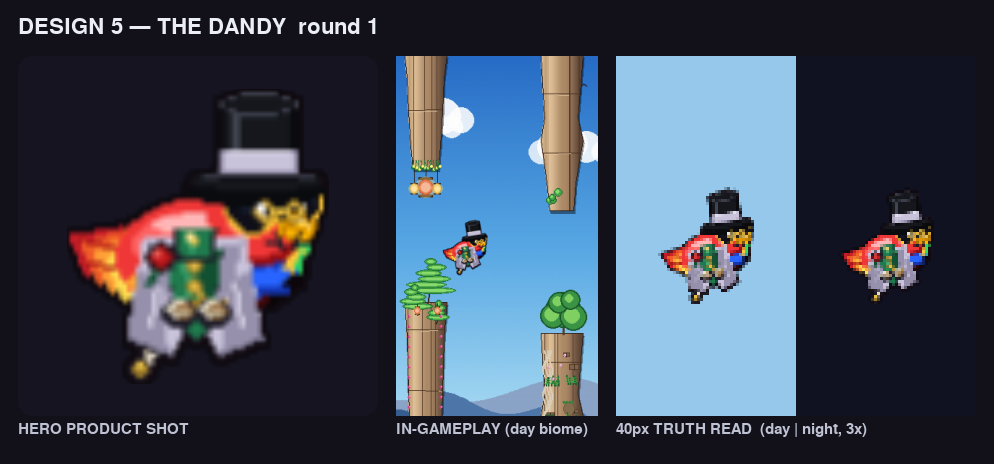
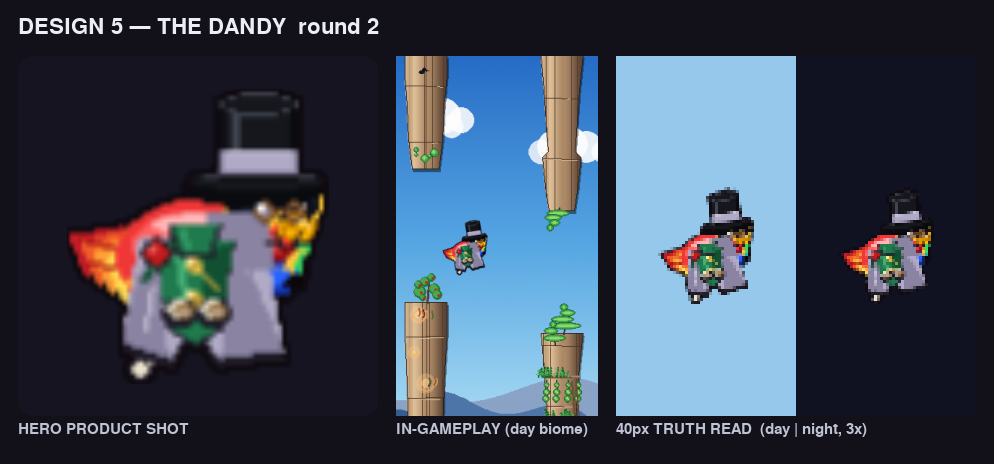
DANDY tophat R2: emerald wedge hero, crisp lavender coat, one gold accent
Chest-consolidation pass on the scratch tophat candidate (design 5).
Kill the stray native-blue wing feather punching through the coat opening
(wider right panel + shoulder cap), widen/raise the emerald waistcoat wedge
so it is the clear second read after the hat, drop the coat base to #B0AAC6
so the lavender holds as a crisp shape on the bright day sky, and cut gold to
one accent (cane knob + two larger buttons, tortoiseshell specs not gold).
Scratch exploration only; not wired into store_skins.BUILDERS.

Claude-Session: https://claude.ai/code/session_01HafGQfRZVDiGkQqpJPr5Cm

diff --git a/tools/tophat_candidates/design_5.py b/tools/tophat_candidates/design_5.py
@@ -19,9 +19,12 @@ import pygame
 
 
 # ── concept palette (per the spec) + derived shadow/highlight steps ──────────
-_DN_LAV     = (200, 194, 218)     # #C8C2DA dove-lavender coat
-_DN_LAV_D   = (150, 144, 172)     # coat shadow / fold
-_DN_LAV_H   = (228, 224, 240)     # coat highlight ridge
+# Coat base dropped ~12% in value to #B0AAC6 so the lavender reads as a CRISP
+# SHAPE against the bright day biome instead of melting into it; the original
+# #C8C2DA is reserved for a single highlight ridge.
+_DN_LAV     = (176, 170, 198)     # #B0AAC6 dove-lavender coat (lifted off sky)
+_DN_LAV_D   = (138, 132, 162)     # coat shadow / fold
+_DN_LAV_H   = (200, 194, 218)     # #C8C2DA single highlight ridge
 _DN_HAT     = (21, 23, 28)        # #15171C near-black topper
 _DN_HAT_D   = (10, 11, 15)
 _DN_HAT_H   = (66, 70, 82)        # cool silk sheen on the crown
@@ -53,78 +56,82 @@ def _paint(surf, _a):
     pygame.draw.line(surf, _DN_IVORY,   grip, tip, 3)
     pygame.draw.line(surf, _DN_IVORY_D, (grip[0] - 1, grip[1] + 1),
                      (tip[0] - 1, tip[1] + 1), 1)
-    # Gold ferrule tip + a round gold knob at the grip — the bright cane tells.
+    # The ferrule tip is left ivory (no gold) — gold is reserved for the ONE
+    # accent so it doesn't smear. The cane KNOB at the grip is that single
+    # strong gold tell: a fat round knob breaking the outline against the sky.
     pygame.draw.circle(surf, _DN_OUTLINE, tip, 3)
-    pygame.draw.circle(surf, _DN_GOLD_D, tip, 2)
-    pygame.draw.circle(surf, _DN_GOLD,   (tip[0], tip[1] - 1), 1)
-    pygame.draw.circle(surf, _DN_OUTLINE, grip, 4)
-    pygame.draw.circle(surf, _DN_GOLD_D,  grip, 3)
-    pygame.draw.circle(surf, _DN_GOLD,    grip, 2)
+    pygame.draw.circle(surf, _DN_IVORY,   tip, 2)
+    pygame.draw.circle(surf, _DN_OUTLINE, grip, 5)
+    pygame.draw.circle(surf, _DN_GOLD_D,  grip, 4)
+    pygame.draw.circle(surf, _DN_GOLD,    grip, 3)
     pygame.draw.circle(surf, _DN_GOLD_H,  (grip[0] - 1, grip[1] - 1), 1)
 
     # ── 2 · LAVENDER TAILCOAT — painted OVER the scarlet body. Two shoulder
     # panels flare down and out to the waist, opening at the centre to expose the
-    # emerald wedge. A dark outline traces the coat edge so the pale dove-lavender
-    # never dissolves into a bright day sky.
+    # emerald wedge. The RIGHT panel is pushed wider (out to cx+18) so it fully
+    # COVERS the bird's native blue/teal wing feather that used to punch through
+    # the coat opening; the centre notch is kept narrow so only emerald shows in
+    # the gap, never bare wing. A dark outline traces the coat edge so the pale
+    # dove-lavender never dissolves into a bright day sky.
     cx = 32
-    coat = [(cx - 12, HY + 6), (cx - 16, HY + 30), (cx - 6, HY + 34),
-            (cx, HY + 22),                                   # centre notch (open)
-            (cx + 6, HY + 34), (cx + 16, HY + 30), (cx + 12, HY + 6)]
-    _poly(surf, _DN_OUTLINE, [(x, y + 1) for (x, y) in coat])  # drop edge
+    coat = [(cx - 13, HY + 6), (cx - 17, HY + 31), (cx - 6, HY + 35),
+            (cx, HY + 24),                                   # narrow centre notch
+            (cx + 6, HY + 35), (cx + 21, HY + 33), (cx + 16, HY + 3)]
+    _poly(surf, _DN_OUTLINE, [(x, y + 2) for (x, y) in coat])  # 2px sky-facing edge
     _poly(surf, _DN_LAV, coat)
-    # Shoulder/fold shading on each panel + a highlight ridge down the near side.
-    _poly(surf, _DN_LAV_D, [(cx - 16, HY + 30), (cx - 13, HY + 14),
-                            (cx - 9, HY + 16), (cx - 7, HY + 32), (cx - 6, HY + 34)])
-    _poly(surf, _DN_LAV_D, [(cx + 16, HY + 30), (cx + 13, HY + 14),
-                            (cx + 9, HY + 16), (cx + 7, HY + 32), (cx + 6, HY + 34)])
-    pygame.draw.line(surf, _DN_LAV_H, (cx - 8, HY + 9), (cx - 11, HY + 27), 1)
-    pygame.draw.line(surf, _DN_LAV_H, (cx + 8, HY + 9), (cx + 11, HY + 27), 1)
+    # Right shoulder cap — buries the native blue/orange wing crest that peeks
+    # above the coat collar on the far side, so no stray feather survives at 40px.
+    _poly(surf, _DN_LAV_D, [(cx + 3, HY), (cx + 17, HY - 1),
+                            (cx + 19, HY + 13), (cx + 5, HY + 13)])
+    # Shoulder/fold shading on each panel + ONE highlight ridge down the near side.
+    _poly(surf, _DN_LAV_D, [(cx - 17, HY + 31), (cx - 13, HY + 14),
+                            (cx - 9, HY + 16), (cx - 7, HY + 33), (cx - 6, HY + 35)])
+    _poly(surf, _DN_LAV_D, [(cx + 21, HY + 33), (cx + 13, HY + 14),
+                            (cx + 9, HY + 16), (cx + 7, HY + 33), (cx + 6, HY + 35)])
+    pygame.draw.line(surf, _DN_LAV_H, (cx - 9, HY + 9), (cx - 12, HY + 28), 1)
     # Peaked lapels framing the open front — a darker lavender so the V reads.
-    _poly(surf, _DN_LAV_D, [(cx - 11, HY + 7), (cx - 2, HY + 9),
-                            (cx - 5, HY + 22), (cx - 9, HY + 16)])
-    _poly(surf, _DN_LAV_D, [(cx + 11, HY + 7), (cx + 2, HY + 9),
-                            (cx + 5, HY + 22), (cx + 9, HY + 16)])
+    _poly(surf, _DN_LAV_D, [(cx - 12, HY + 7), (cx - 3, HY + 9),
+                            (cx - 5, HY + 22), (cx - 10, HY + 16)])
+    _poly(surf, _DN_LAV_D, [(cx + 14, HY + 7), (cx + 3, HY + 9),
+                            (cx + 5, HY + 22), (cx + 11, HY + 16)])
 
-    # ── 3 · EMERALD WAISTCOAT WEDGE — the saturated HERO, bold and central so the
-    # pastel coat has a high-chroma anchor that holds day AND night. A bright V
-    # of emerald filling the open coat front, outlined dark, with a lighter ridge.
-    wedge = [(cx - 6, HY + 9), (cx + 6, HY + 9), (cx + 4, HY + 26),
-             (cx, HY + 30), (cx - 4, HY + 26)]
+    # ── 3 · EMERALD WAISTCOAT WEDGE — the saturated HERO, now ~40% wider and
+    # RAISED so its mass sits centred directly under the ascot: emerald is the
+    # second thing the eye catches after the hat. A broad bright V of emerald
+    # fills the open coat front, outlined dark, with a lighter ridge. Pushed up
+    # to HY+7 so the wide top edge anchors the chest under the throat.
+    wedge = [(cx - 9, HY + 7), (cx + 9, HY + 7), (cx + 6, HY + 27),
+             (cx, HY + 31), (cx - 6, HY + 27)]
     _poly(surf, _DN_OUTLINE, [(x, y + 1) for (x, y) in wedge])
     _poly(surf, _DN_EMER, wedge)
-    _poly(surf, _DN_EMER_D, [(cx + 2, HY + 11), (cx + 6, HY + 9),
-                             (cx + 4, HY + 26), (cx + 1, HY + 24)])
-    pygame.draw.line(surf, _DN_EMER_H, (cx - 3, HY + 11), (cx - 1, HY + 24), 1)
+    _poly(surf, _DN_EMER_D, [(cx + 3, HY + 9), (cx + 9, HY + 7),
+                             (cx + 6, HY + 27), (cx + 2, HY + 25)])
+    pygame.draw.line(surf, _DN_EMER_H, (cx - 5, HY + 9), (cx - 2, HY + 25), 2)
 
-    # Three gold waistcoat buttons down the centre of the wedge.
-    for by in (HY + 13, HY + 18, HY + 23):
+    # ONE gold accent on the chest: two LARGER waistcoat buttons (the gold tell),
+    # plus a single 1px chain hint so the gold doesn't smear into a smudge.
+    for by in (HY + 13, HY + 21):
         pygame.draw.circle(surf, _DN_GOLD_D, (cx, by), 2)
-        pygame.draw.circle(surf, _DN_GOLD,   (cx, by), 1)
-    # Slim gold watch-chain swagging across the belly from a button to the pocket.
-    pygame.draw.lines(surf, _DN_GOLD_D, False,
-                      [(cx, HY + 18), (cx + 3, HY + 24), (cx + 7, HY + 22)], 2)
-    pygame.draw.lines(surf, _DN_GOLD, False,
-                      [(cx, HY + 18), (cx + 3, HY + 23), (cx + 7, HY + 21)], 1)
+        pygame.draw.circle(surf, _DN_GOLD,   (cx, by), 2, 1)
+        pygame.draw.circle(surf, _DN_GOLD_H, (cx - 1, by - 1), 1)
+    pygame.draw.line(surf, _DN_GOLD, (cx, HY + 13), (cx + 5, HY + 18), 1)  # chain hint
 
     # ── 4 · ASCOT / CRAVAT — bright emerald-and-gold puff at the throat, sitting
     # just under the head where the wedge meets the collar. A small saturated
     # blob carries the colour up to the face so the wedge isn't an island.
-    ax, ay = cx, HY + 6
-    _poly(surf, _DN_OUTLINE, [(ax - 5, ay - 2), (ax + 5, ay - 2),
+    ax, ay = cx, HY + 5
+    _poly(surf, _DN_OUTLINE, [(ax - 6, ay - 2), (ax + 6, ay - 2),
                               (ax + 4, ay + 5), (ax - 4, ay + 5)])
-    _poly(surf, _DN_EMER, [(ax - 4, ay - 2), (ax + 4, ay - 2),
+    _poly(surf, _DN_EMER, [(ax - 5, ay - 2), (ax + 5, ay - 2),
                            (ax + 3, ay + 4), (ax - 3, ay + 4)])
-    pygame.draw.line(surf, _DN_EMER_H, (ax - 2, ay - 1), (ax - 1, ay + 3), 1)
-    # Gold ascot pin glinting at the knot.
-    pygame.draw.circle(surf, _DN_GOLD,   (ax, ay + 1), 1)
-    pygame.draw.circle(surf, _DN_GOLD_H, (ax - 1, ay), 1)
+    pygame.draw.line(surf, _DN_EMER_H, (ax - 3, ay - 1), (ax - 2, ay + 3), 1)
+    # No gold pin at the knot — gold is reserved for the single cane/button tell.
 
-    # ── 5 · ROSE BOUTONNIÈRE — scarlet bloom on the near lapel (a nod to Pip's
-    # native red), a small layered red flower with a green leaf flick.
-    rx, ry = cx - 8, HY + 11
+    # ── 5 · ROSE BOUTONNIÈRE — bumped to a solid 3px scarlet dot high on the near
+    # lapel (a nod to Pip's native red) so the bloom survives a touch at 40px.
+    rx, ry = cx - 9, HY + 10
     pygame.draw.circle(surf, _DN_OUTLINE, (rx, ry), 4)
-    pygame.draw.circle(surf, _DN_ROSE_D, (rx, ry), 3)
-    pygame.draw.circle(surf, _DN_ROSE,   (rx, ry), 2)
+    pygame.draw.circle(surf, _DN_ROSE,   (rx, ry), 3)
     pygame.draw.circle(surf, _DN_ROSE_H, (rx - 1, ry - 1), 1)
     pygame.draw.line(surf, _DN_EMER_D, (rx - 2, ry + 3), (rx - 4, ry + 6), 2)  # leaf
 
@@ -160,15 +167,18 @@ def _paint(surf, _a):
     pygame.draw.line(surf, _DN_LAV_H, (HX - 7, cy - 5), (HX + 7, cy - 5), 1)
 
     # ── 8 · FACE — pencil-thin curled moustache + round tortoiseshell SPECTACLES
-    # (two small rings) instead of a monocle, for the jazz-age look.
-    # Spectacles: two gold-brown rings over both eyes + a bridge.
+    # (two small rings) instead of a monocle, for the jazz-age look. The frames
+    # are TORTOISESHELL brown, NOT gold — keeping gold to the single cane/button
+    # tell so the chest read stays clean (the specs are hero-only charm anyway).
+    _TORT   = (96, 62, 38)
+    _TORT_H = (150, 108, 70)
     lx, rx2 = HX + 2, HX + 9
     sy2 = HY
-    pygame.draw.circle(surf, _DN_GOLD_D, (lx, sy2), 3, 1)
-    pygame.draw.circle(surf, _DN_GOLD_D, (rx2, sy2), 3, 1)
-    pygame.draw.circle(surf, _DN_GOLD,   (lx, sy2), 2, 1)
-    pygame.draw.circle(surf, _DN_GOLD,   (rx2, sy2), 2, 1)
-    pygame.draw.line(surf, _DN_GOLD, (lx + 2, sy2 - 1), (rx2 - 2, sy2 - 1), 1)  # bridge
+    pygame.draw.circle(surf, _TORT,   (lx, sy2), 3, 1)
+    pygame.draw.circle(surf, _TORT,   (rx2, sy2), 3, 1)
+    pygame.draw.circle(surf, _TORT_H, (lx, sy2), 2, 1)
+    pygame.draw.circle(surf, _TORT_H, (rx2, sy2), 2, 1)
+    pygame.draw.line(surf, _TORT, (lx + 2, sy2 - 1), (rx2 - 2, sy2 - 1), 1)     # bridge
     pygame.draw.circle(surf, (255, 255, 255), (lx - 1, sy2 - 1), 1)            # glint
     # Pencil-thin curled moustache under the beak — two strands flicking up.
     mx, my = HX + 7, HY + 7

diff --git a/tools/tophat_candidates/render_design_5.py b/tools/tophat_candidates/render_design_5.py
@@ -13,7 +13,7 @@ from tools import ninja_render
 from tools.tophat_candidates.design_5 import build
 
 OUT = "docs/store_redesign/costume/tophat/design_5/round_1.png"
-TITLE = "DESIGN 5 — THE DANDY  round 1"
+TITLE = "DESIGN 5 — THE DANDY  round 2"
 
 
 def _label(surf, text, x, y, size=18, color=(236, 238, 246)):
